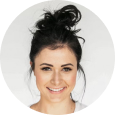
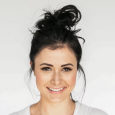
feedback content converted to list

diff --git a/index.html b/index.html
@@ -307,23 +307,63 @@
                     <h3 class="feedback__title">What our customers saying?</h3>
                 </div>
                 <div class="feedback__content">
-                    <img class="feedback__photo"
-                         src="/images/photo.png" alt="photo">
-                    <div class="rating rating_five feedback__rating">
-                        <img class="rating__placeholder" src="/images/rating.png" alt="unbelievable fabulous!">
-                        <div class="rating__de-facto">
-                            <img src="/images/rating.png" alt="not so great...">
-                        </div>
-                    </div>
-                    <p class="feedback__text">
-                        The quality of organic produce is extremely high, the service
-                        is second to none and the taste of the food takes me back to my
-                        childhood when we were growing our own.
-                    </p>
-                    <div class="feedback__credentials feedback-credentials">
-                        <span class="feedback-credentials__author">sara taylor</span>
-                        <span class="feedback-credentials__role">consumer</span>
-                    </div>
+                    <ul class="feedback__list">
+                        <li class="feedback__item feedback__item_visible">
+                            <img class="feedback__photo"
+                                 src="/images/photo.png" alt="photo">
+                            <div class="rating rating_five feedback__rating">
+                                <img class="rating__placeholder" src="/images/rating.png" alt="unbelievable fabulous!">
+                                <div class="rating__de-facto">
+                                    <img src="/images/rating.png" alt="not so great...">
+                                </div>
+                            </div>
+                            <p class="feedback__text">
+                                The quality of organic produce is extremely high, the service
+                                is second to none and the taste of the food takes me back to my
+                                childhood when we were growing our own.
+                            </p>
+                            <div class="feedback__credentials feedback-credentials">
+                                <span class="feedback-credentials__author">sara taylor</span>
+                                <span class="feedback-credentials__role">consumer</span>
+                            </div>
+                        </li>
+                        <li class="feedback__item">
+                            <img class="feedback__photo"
+                                 src="/images/mario.jpg" alt="photo">
+                            <div class="rating rating_five feedback__rating">
+                                <img class="rating__placeholder" src="/images/rating.png" alt="unbelievable fabulous!">
+                                <div class="rating__de-facto">
+                                    <img src="/images/rating.png" alt="not so great...">
+                                </div>
+                            </div>
+                            <p class="feedback__text">
+                                Lorem ipsum dolor sit amet, consectetur adipisicing elit.
+                                Amet dolores ducimus eum ex, id ipsam laudantium nobis quas repellat sit!
+                            </p>
+                            <div class="feedback__credentials feedback-credentials">
+                                <span class="feedback-credentials__author">mario mario</span>
+                                <span class="feedback-credentials__role">plumber</span>
+                            </div>
+                        </li>
+                        <li class="feedback__item">
+                            <img class="feedback__photo"
+                                 src="/images/luigi.png" alt="photo">
+                            <div class="rating rating_five feedback__rating">
+                                <img class="rating__placeholder" src="/images/rating.png" alt="unbelievable fabulous!">
+                                <div class="rating__de-facto">
+                                    <img src="/images/rating.png" alt="not so great...">
+                                </div>
+                            </div>
+                            <p class="feedback__text">
+                                Lorem ipsum dolor sit amet, consectetur adipisicing elit.
+                                Amet dolores ducimus eum ex, id ipsam laudantium nobis quas repellat sit!
+                            </p>
+                            <div class="feedback__credentials feedback-credentials">
+                                <span class="feedback-credentials__author">luigi mario</span>
+                                <span class="feedback-credentials__role">plumber</span>
+                            </div>
+                        </li>
+                    </ul>
                 </div>
                 <div class="divider feedback__divider"></div>
                 <div class="summary">

diff --git a/css/feedback.css b/css/feedback.css
@@ -43,9 +43,32 @@
     text-align: center;
 }
 
+.feedback__list {
+    position: relative;
+    min-height: 355px;
+    width: 100%;
+    height: 100%;
+    overflow: hidden;
+}
+
+.feedback__item {
+    width: 100%;
+    height: 100%;
+    position: absolute;
+    display: none;
+}
+
+.feedback__item_visible {
+    display: block;
+}
+
 .feedback__photo {
     align-self: center;
     margin-bottom: 18px;
+    box-sizing: border-box;
+    width: 85px;
+    height: 85px;
+    border-radius: 100%;
 }
 
 .feedback__rating {

diff --git a/css/main.css b/css/main.css
@@ -466,7 +466,7 @@
     }
 }
 
-@media screen and (max-width: 365px) {
+@media screen and (max-width: 375px) {
     .feedback__bg_right {
         visibility: hidden;
     }
@@ -487,6 +487,10 @@
 
     .header {
         min-height: 250px;
+    }
+
+    .feedback__list {
+        min-height: 400px;
     }
 }
 
